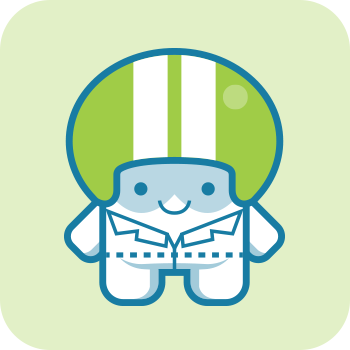
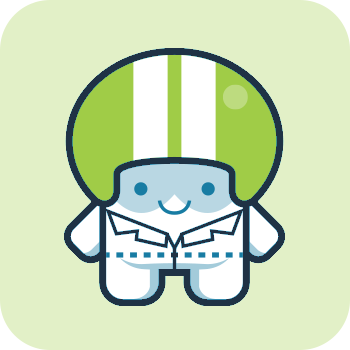
Updated header style

Changed region(s): [[0.1714, 0.1143, 0.8286, 0.8857]]

diff --git a/css/flowable.scss b/css/flowable.scss
@@ -93,7 +93,7 @@ li + li {
 
 .nav-main {
 	@include clearfix;
-	background: $darkestColor;
+	background: $navColor;
 	color: $lightTextColor;
 	position: fixed;
 	top: 0;
@@ -135,8 +135,8 @@ li + li {
 
 			&.active {
 				color: $lightTextColor;
-				border-bottom: 3px solid $primary;
-				background: #0c4359;
+				border-bottom: 3px solid $navColor;
+				background: $navCurrent;
 			}
 		}
 	}
@@ -168,7 +168,6 @@ li + li {
 
 .hero {
 	height: 340px;
-	// background: $darkColor url(../img/header.png) no-repeat center;
 	background: $darkColor;
 	padding-top: 50px;
 	color: $lightColor;
@@ -772,12 +771,6 @@ section.black content {
 
 	&:active {
 		box-shadow: none;
-	}
-}
-
-.hero {
-	.button {
-		box-shadow: 1px 3px 3px rgba(0, 0, 0, .3);
 	}
 }
 

diff --git a/_css/_variables.scss b/_css/_variables.scss
@@ -1,16 +1,17 @@
-$primary: #009ab5;
-$linkColor: darken($primary, 9%);
-$linkInteract: darken($linkColor, 9%);
-//$pageBg: #e9e9e9;
+$primary: #1f3245;
+$linkColor: lighten($primary, 20%);
+$linkInteract: lighten($linkColor, 20%);
 $pageBg: #f9f9f9;
 
 $lightColor: #e9f3db;
 $mediumestColor: #666;
 $mediumColor: #0c4359;
 $darkColor: #a0cc47;
-$darkestColor: #187ca3;
+$darkestColor: #1f3245;
 $blueColor: #61dafb;
 $orangeColor: complement($blueColor);
+$navColor: #1f3245;
+$navCurrent: #798490;
 
 $lightTextColor: #fafafa;
 $mediumTextColor: #aaa;
@@ -21,5 +22,5 @@ $buttonBlueBottom: #4783c2;
 $buttonGreyTop: #9a9a9a;
 $buttonGreyBottom: #646464;
 
-$buttonColor: #187ca3;
+$buttonColor: #1f3245;
 
